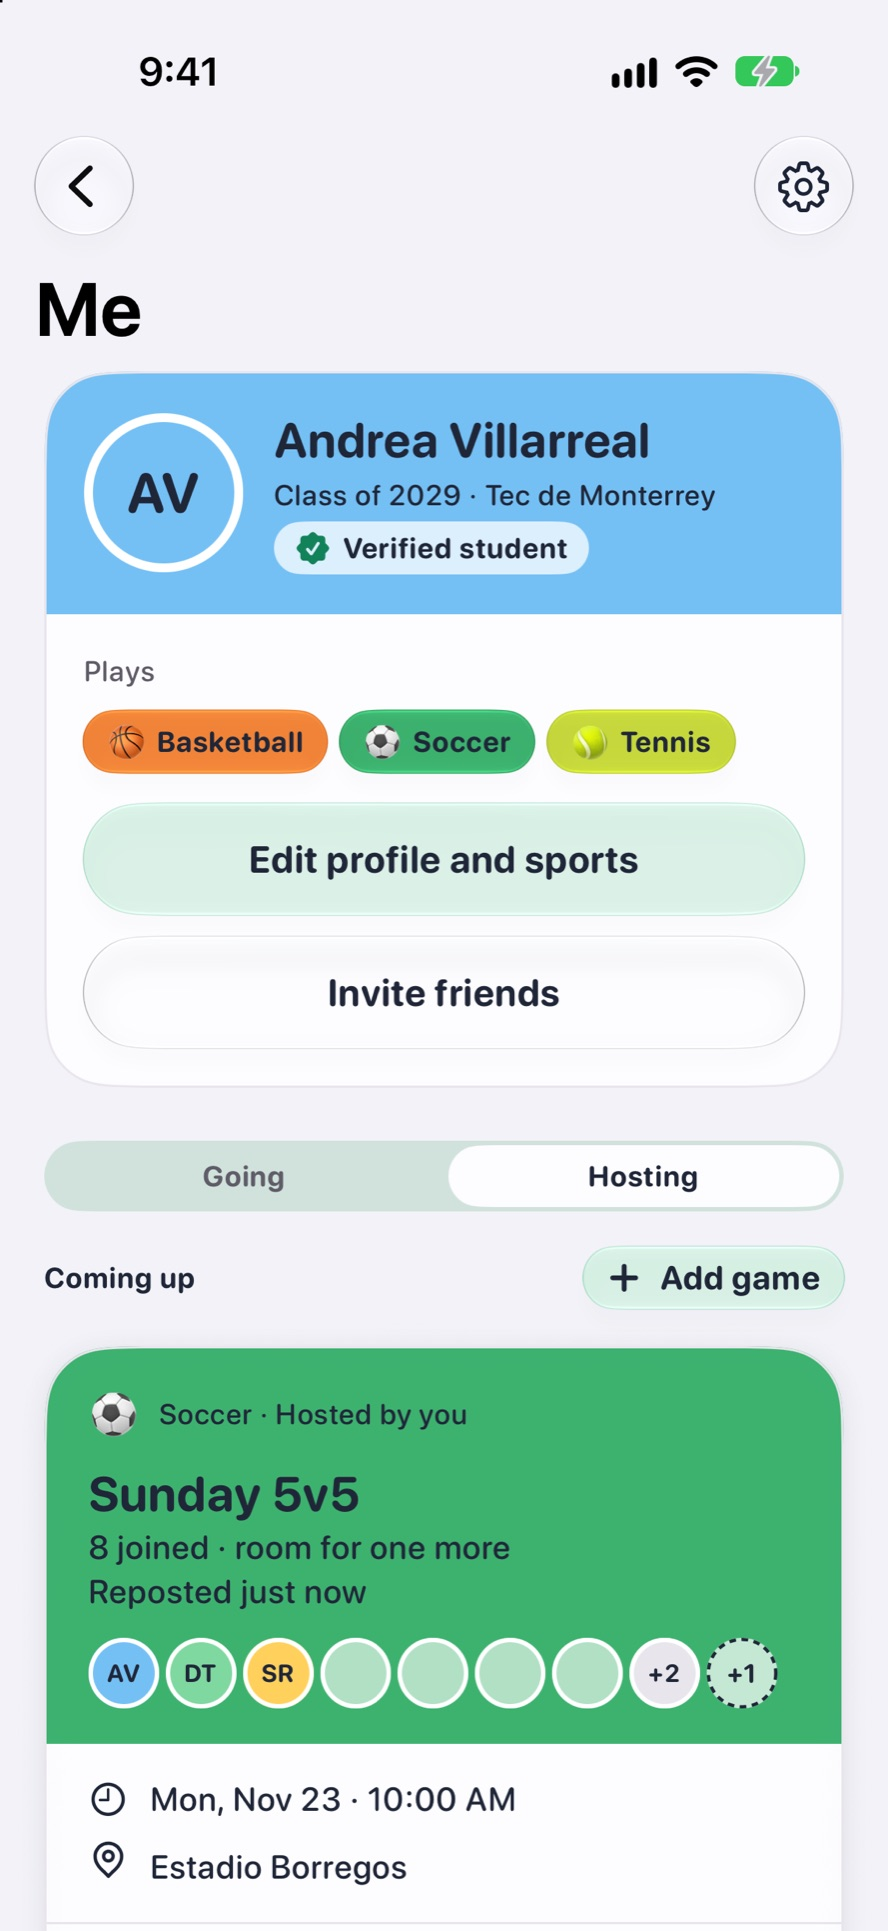
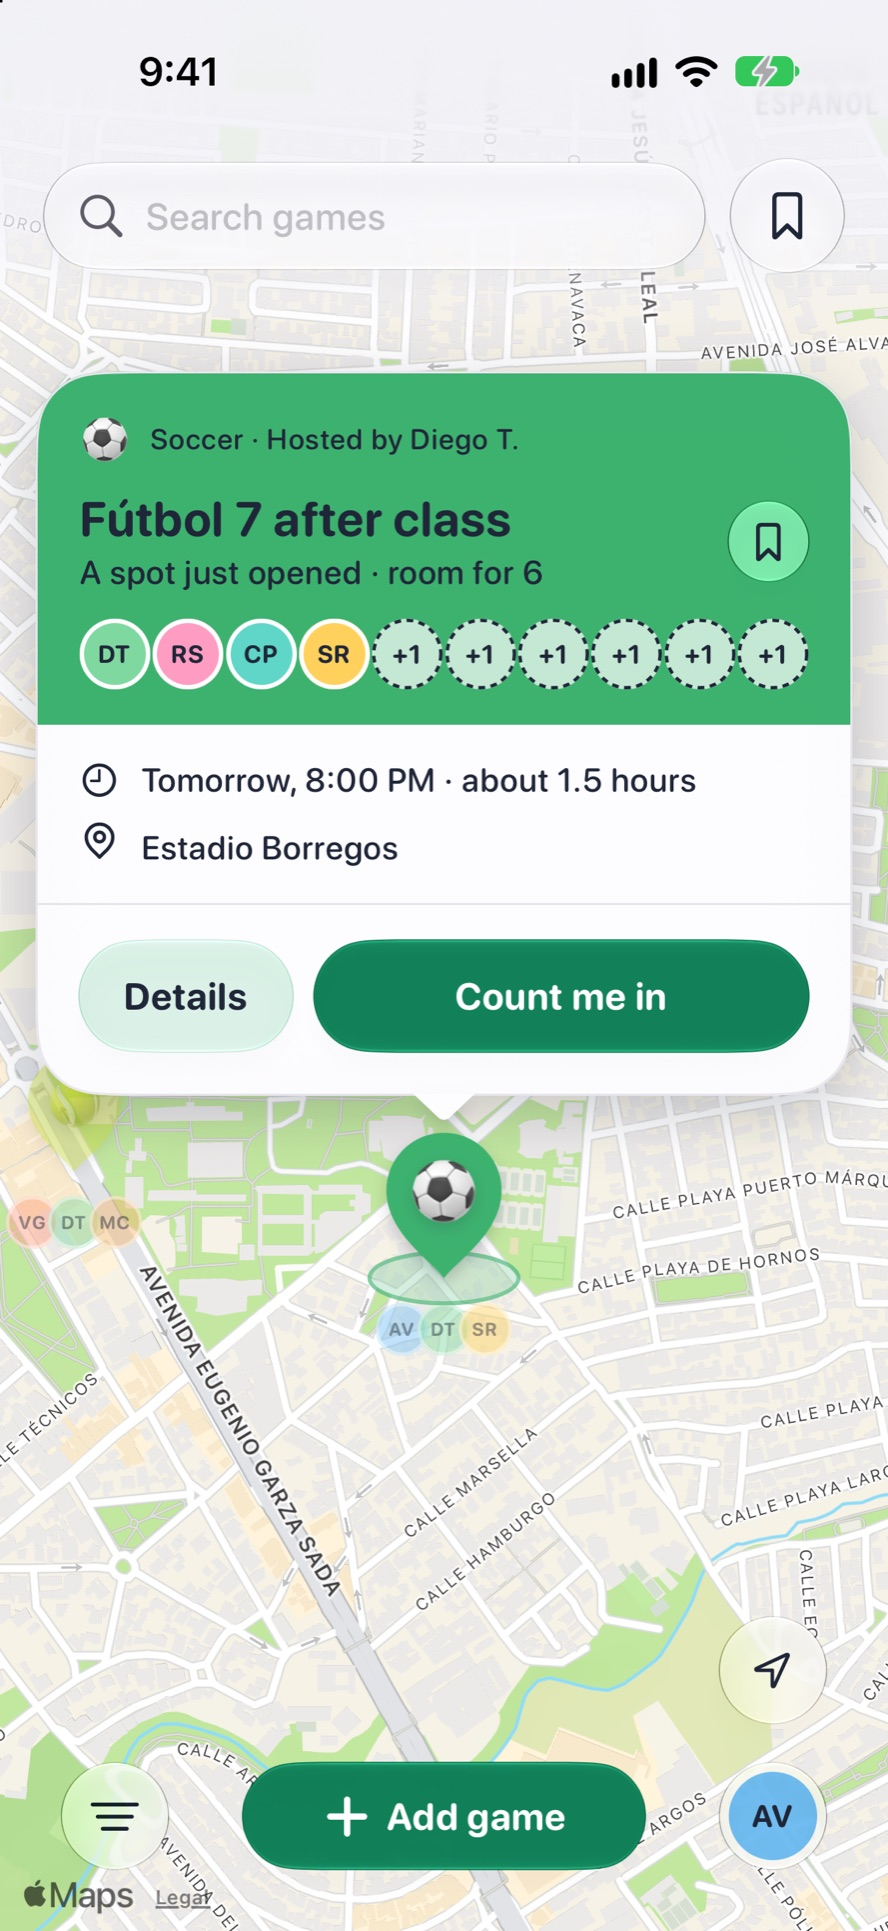
Repost step: reposted game popup on the map

diff --git a/i18n.js b/i18n.js
@@ -89,7 +89,7 @@ const ES = {
   "Add game form filled in for a pickup game": "Formulario de Crear partido lleno para una reta",
   "Me · Hosting": "Yo · Organizo",
   "A game's group chat with the meet-up spot pinned at the top": "El chat del grupo de un partido con el punto de encuentro fijado arriba",
-  "Me › Hosting: Sunday 5v5 reposted just now, with room for one more": "Mi perfil › Organizo: Fut 5 del domingo se acaba de volver a publicar, con lugar para una persona más",
+  "A reposted soccer game on the map: A spot just opened, room for 6, with Count me in": "Un partido de fútbol republicado en el mapa: se acaba de abrir un lugar, hay espacio para 6, con Me apunto",
   "Open spots": "Lugares disponibles",
   "The map only shows games you can join": "En el mapa solo ves retas a las que sí te puedes unir",
   "No walking over to a full court.": "Para que no vayas hasta una cancha que ya está llena.",

diff --git a/index.html b/index.html
@@ -378,7 +378,7 @@
                 </div>
                 <div class="layer">
                   <div class="placeholder"><span class="ph-icon"><svg class="i"><use href="#i-image"/></svg></span><strong>Auto-repost</strong><span>App screenshot goes here</span><code>assets/screens/en/repost.jpg</code></div>
-                  <img src="assets/screens/en/repost.jpg" data-src-es="assets/screens/es/repost.jpg" width="888" height="1931" alt="Me › Hosting: Sunday 5v5 reposted just now, with room for one more" onerror="this.remove()">
+                  <img src="assets/screens/en/repost.jpg" data-src-es="assets/screens/es/repost.jpg" width="888" height="1931" alt="A reposted soccer game on the map: A spot just opened, room for 6, with Count me in" onerror="this.remove()">
                 </div>
               </div>
             </figure>

diff --git a/README.md b/README.md
@@ -33,7 +33,7 @@ The phone around them is Apple's iPhone 18 Pro frame from Apple Design Resources
 | `assets/screens/{en,es}/detail-in.jpg` | You're in! with Open group chat | "I want to play" step 3 |
 | `assets/screens/{en,es}/add-filled.jpg` | Add game form, filled in | "I need players" step 1 |
 | `assets/screens/{en,es}/chat.jpg` | Group chat with the pinned meet-up card | "I need players" step 2 |
-| `assets/screens/{en,es}/repost.jpg` | Me › Hosting right after auto-repost (`-screen repost`, taken separately: `screenshots.sh` doesn't include it) | "I need players" step 3 |
+| `assets/screens/{en,es}/repost.jpg` | A reposted game's popup on the map, "A spot just opened" (`-screen popup-bumped`, taken separately: `screenshots.sh` doesn't include it) | "I need players" step 3 |
 
 People on the page are colored initials (EG, RT and so on), the same as in the app, so `assets/people/` isn't loaded by this design.
 
